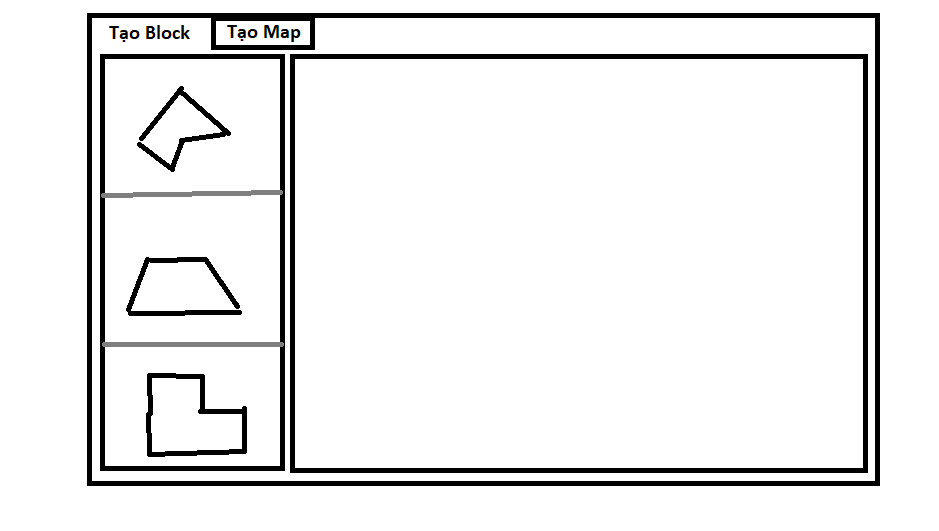
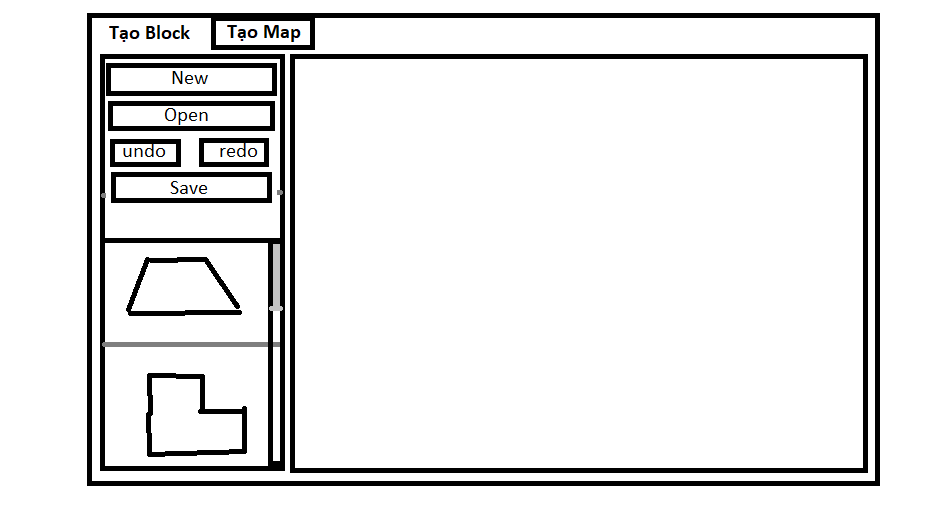
[Update] first UI

Changed region(s): [[0.0927, 0.1205, 0.3088, 0.3917], [0.1235, 0.4218, 0.3088, 0.8738]]

diff --git a/main.js b/main.js
@@ -2,28 +2,127 @@ const MODE = {
     BLOCK: "Block",
     MAP: "Map",
 };
-let mode = MODE.BLOCK;
+let mode = MODE.MAP;
 let pMouseIsPressed;
 
+let stats;
+
 function setup() {
-    createCanvas(800, 600);
+    createCanvas(800, 600).id("game-canvas");
     textAlign(CENTER, CENTER);
+
+    stats = new Stats();
+    stats.showPanel(0);
+    document.body.appendChild(stats.dom);
 }
 
 function draw() {
+    stats.begin();
+
     background(30);
 
-    if (button("Tạo " + mode, 10, 10, 100, 25)) {
-        mode = mode == MODE.BLOCK ? MODE.MAP : MODE.BLOCK;
+    cursor(ARROW); // reset cursor
+
+    // header tabs
+    if (button("Block", 5, 10, 100, 30, mode == MODE.BLOCK)) {
+        mode = MODE.BLOCK;
+    }
+    if (button("Map", 105, 10, 100, 30, mode == MODE.MAP)) {
+        mode = MODE.MAP;
     }
 
+    fill("white");
+    text("LOL2D MAP EDITOR", width / 2 + 100, 20);
+
+    // body
     if (mode == MODE.BLOCK) {
-        text("BLOCK", width / 2, height / 2);
+        drawModeBlock();
     } else {
-        text("MAP", width / 2, height / 2);
+        drawModeMap();
     }
 
+    // input
     pMouseIsPressed = mouseIsPressed;
+
+    stats.end();
+}
+
+function drawModeBlock() {
+    // ---------- menu zone ----------
+    fill("#333");
+    rect(5, 40, 200, height - 40 - 5);
+
+    // buttons
+    if (button("New block", 10, 60, 190, 25)) {
+        console.log("new");
+    }
+
+    if (button("Open block", 10, 90, 190, 25)) {
+        console.log("open");
+    }
+
+    if (button("Load Image for block", 10, 120, 190, 25)) {
+        console.log("load image");
+    }
+
+    if (button("Undo", 10, 150, 92.5, 25)) {
+        console.log("undo");
+    }
+
+    if (button("Redo", 107.5, 150, 92.5, 25)) {
+        console.log("redo");
+    }
+
+    if (button("Save block", 10, 200, 190, 25)) {
+        console.log("save");
+    }
+
+    // ---------- editor zone ----------
+    fill("gray");
+    rect(210, 40, width - 210 - 5, height - 40 - 5);
+
+    fill("white");
+    text("BLOCK", width / 2, height / 2);
+}
+
+function drawModeMap() {
+    // ---------- menu zone ----------
+    fill("#333");
+    rect(5, 40, 200, height - 40 - 5);
+
+    // buttons
+    if (button("New map", 10, 60, 190, 25)) {
+        console.log("new");
+    }
+
+    if (button("Open map", 10, 90, 190, 25)) {
+        console.log("open");
+    }
+
+    if (button("Undo", 10, 120, 92.5, 25)) {
+        console.log("undo");
+    }
+
+    if (button("Redo", 107.5, 120, 92.5, 25)) {
+        console.log("redo");
+    }
+
+    if (button("Save map", 10, 170, 190, 25)) {
+        console.log("save");
+    }
+
+    // blocks zone
+    fill("white");
+    text("List Blocks: ", 45, 220);
+
+    listBlocks(10, 235, 190, 355);
+
+    // ---------- editor zone ----------
+    fill("gray");
+    rect(210, 40, width - 210 - 5, height - 40 - 5);
+
+    fill("white");
+    text("MAP", width / 2, height / 2);
 }
 
 // helpers
@@ -33,19 +132,18 @@ function button(t, x, y, w, h, isActive) {
     // cursor
     if (isHover) {
         cursor(HAND);
-    } else {
-        cursor(ARROW);
     }
 
     // color
     if (isActive) {
-        fill("#444");
+        fill("#333");
     } else if (isHover) {
         fill("#999");
     } else {
         fill("#555");
     }
-    stroke("black");
+    //stroke("#333");
+    noStroke();
 
     // background
     rect(x, y, w, h);
@@ -56,6 +154,12 @@ function button(t, x, y, w, h, isActive) {
     text(t, x + w / 2, y + h / 2);
 
     return isMousePressed() && isHover;
+}
+
+function listBlocks(x, y, w, h) {
+    // background
+    fill("#111");
+    rect(x, y, w, h);
 }
 
 function isMousePressed() {

diff --git a/index.html b/index.html
@@ -6,7 +6,21 @@
     <meta name="viewport" content="width=device-width, initial-scale=1.0">
     <title>Map Editor - LOL2D</title>
 
+    <style>
+        #game-canvas {
+            padding: 0;
+            margin: auto;
+            display: block;
+            position: absolute;
+            top: 0;
+            bottom: 0;
+            left: 0;
+            right: 0;
+        }
+    </style>
+
     <script src="lib/p5.min.js"></script>
+    <script src="lib/stats.min.js"></script>
 </head>
 
 <body>
